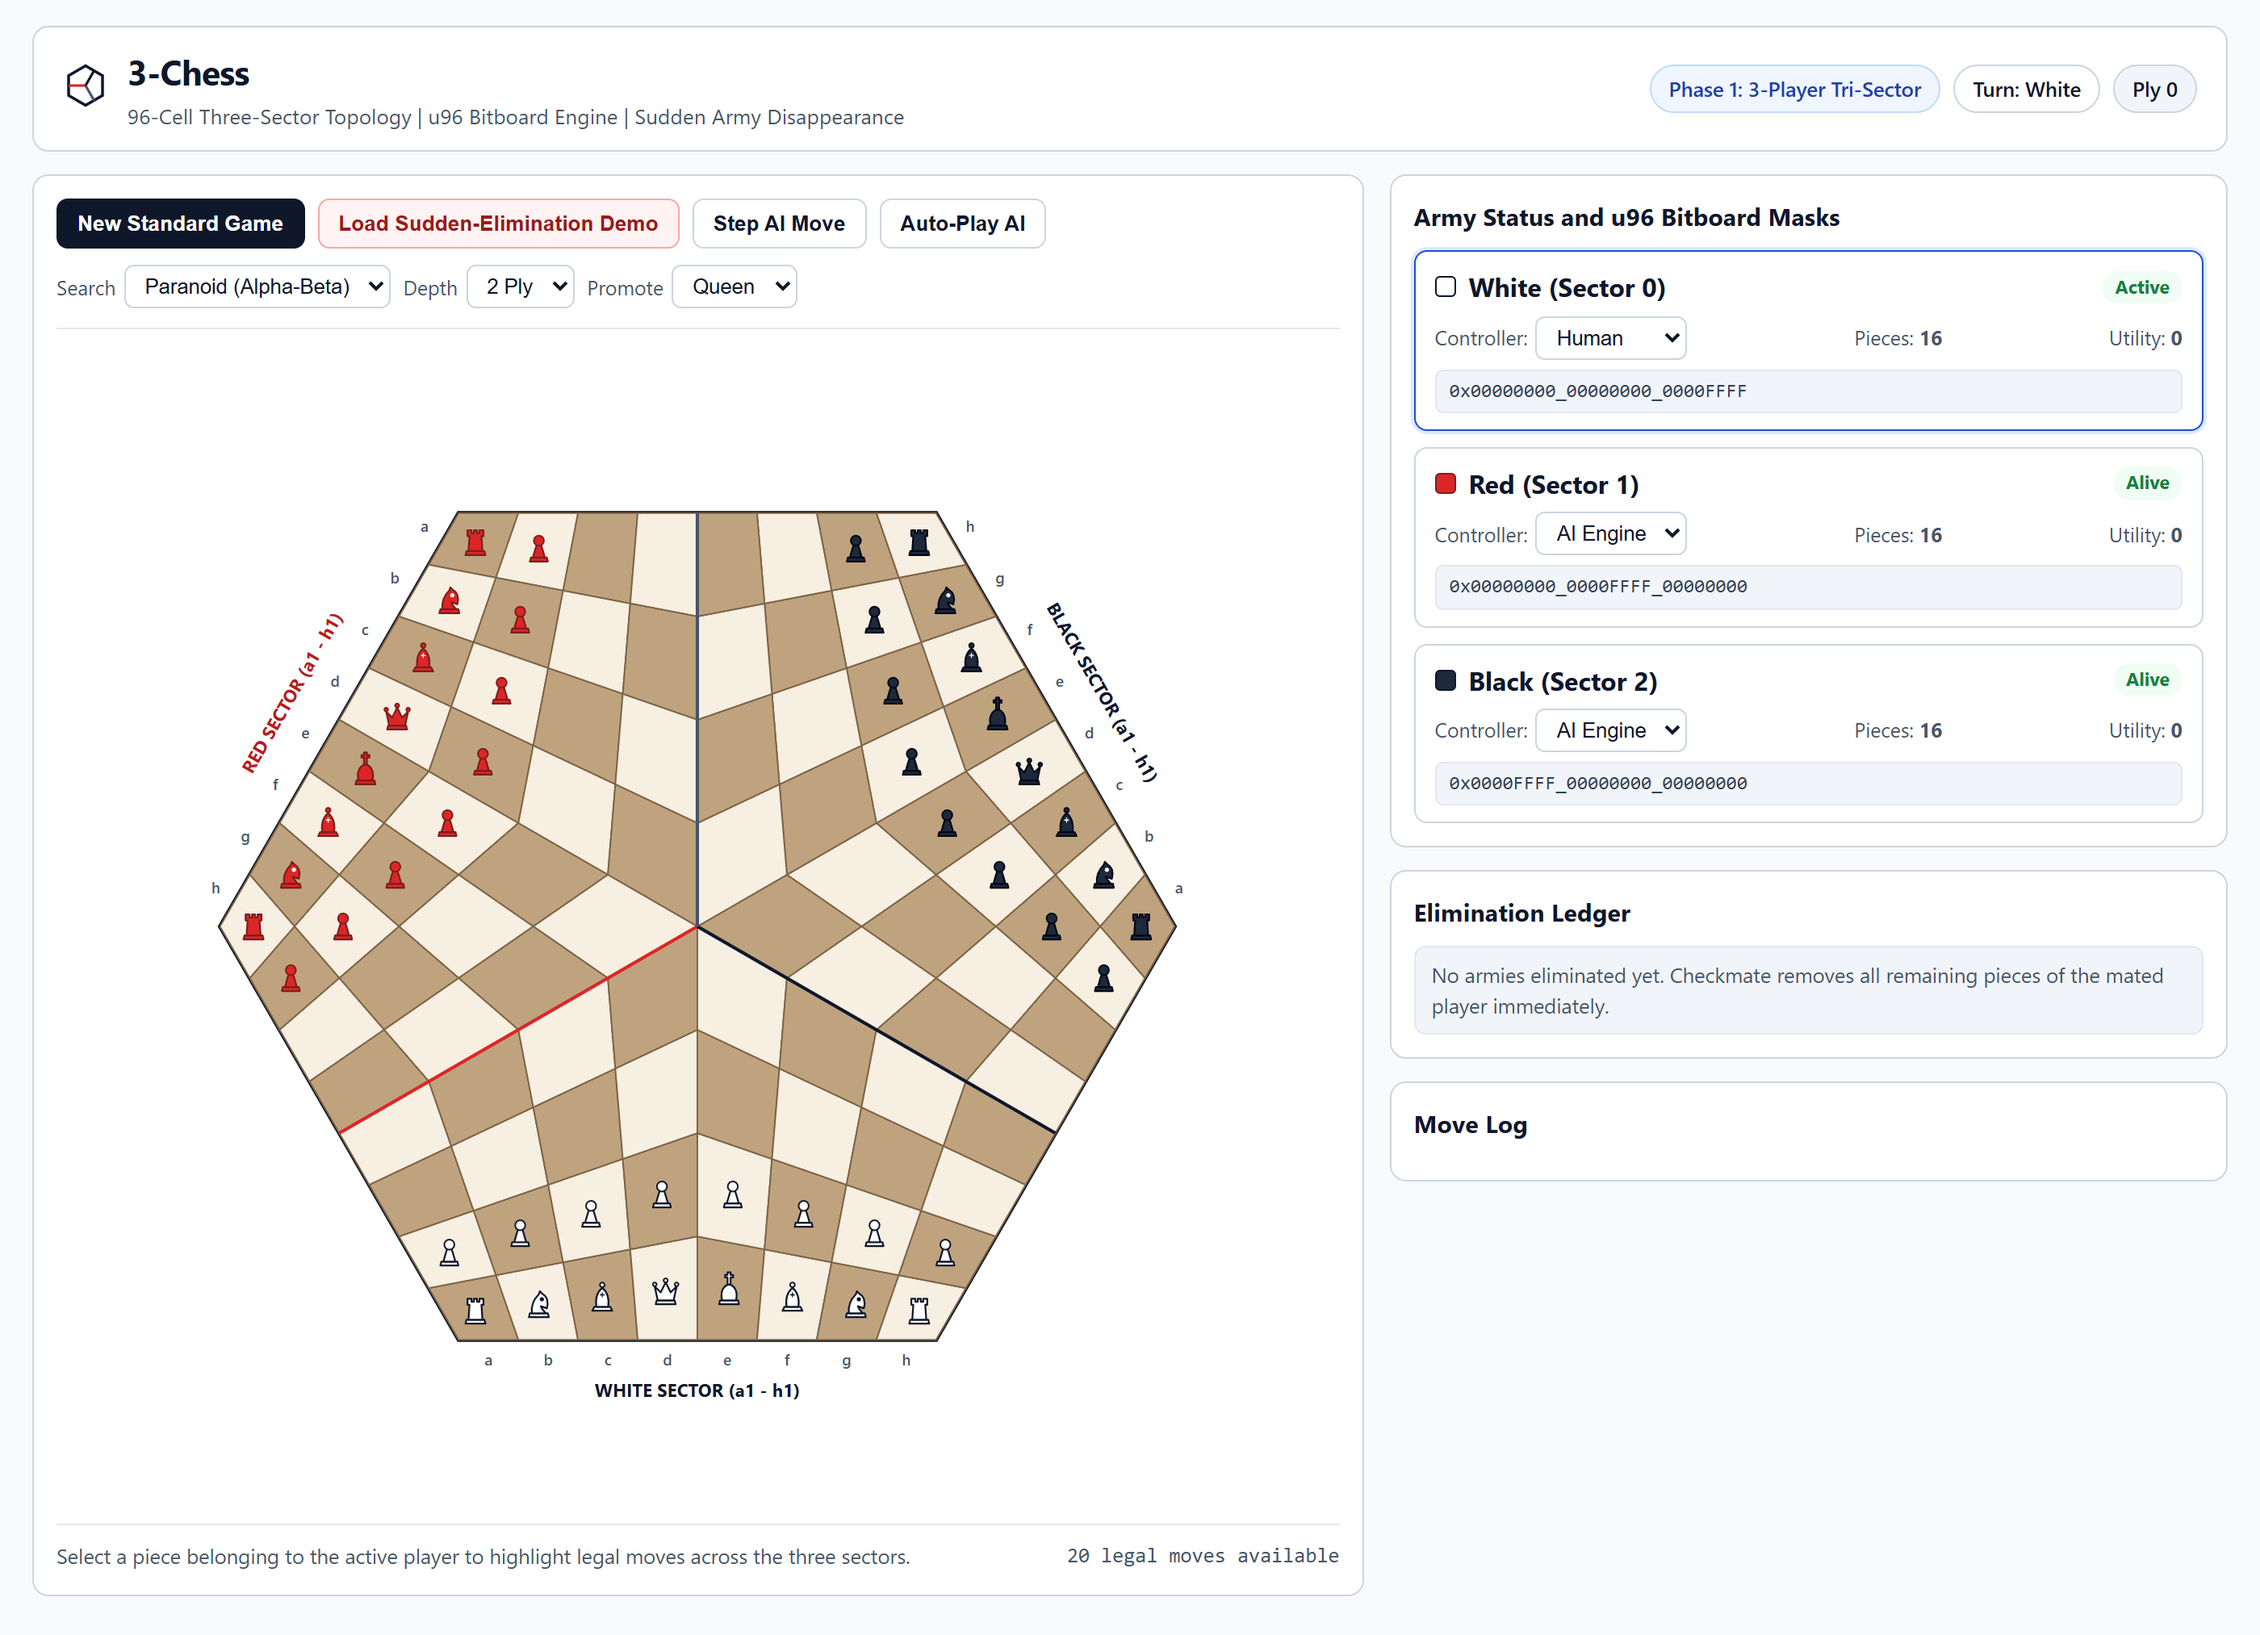
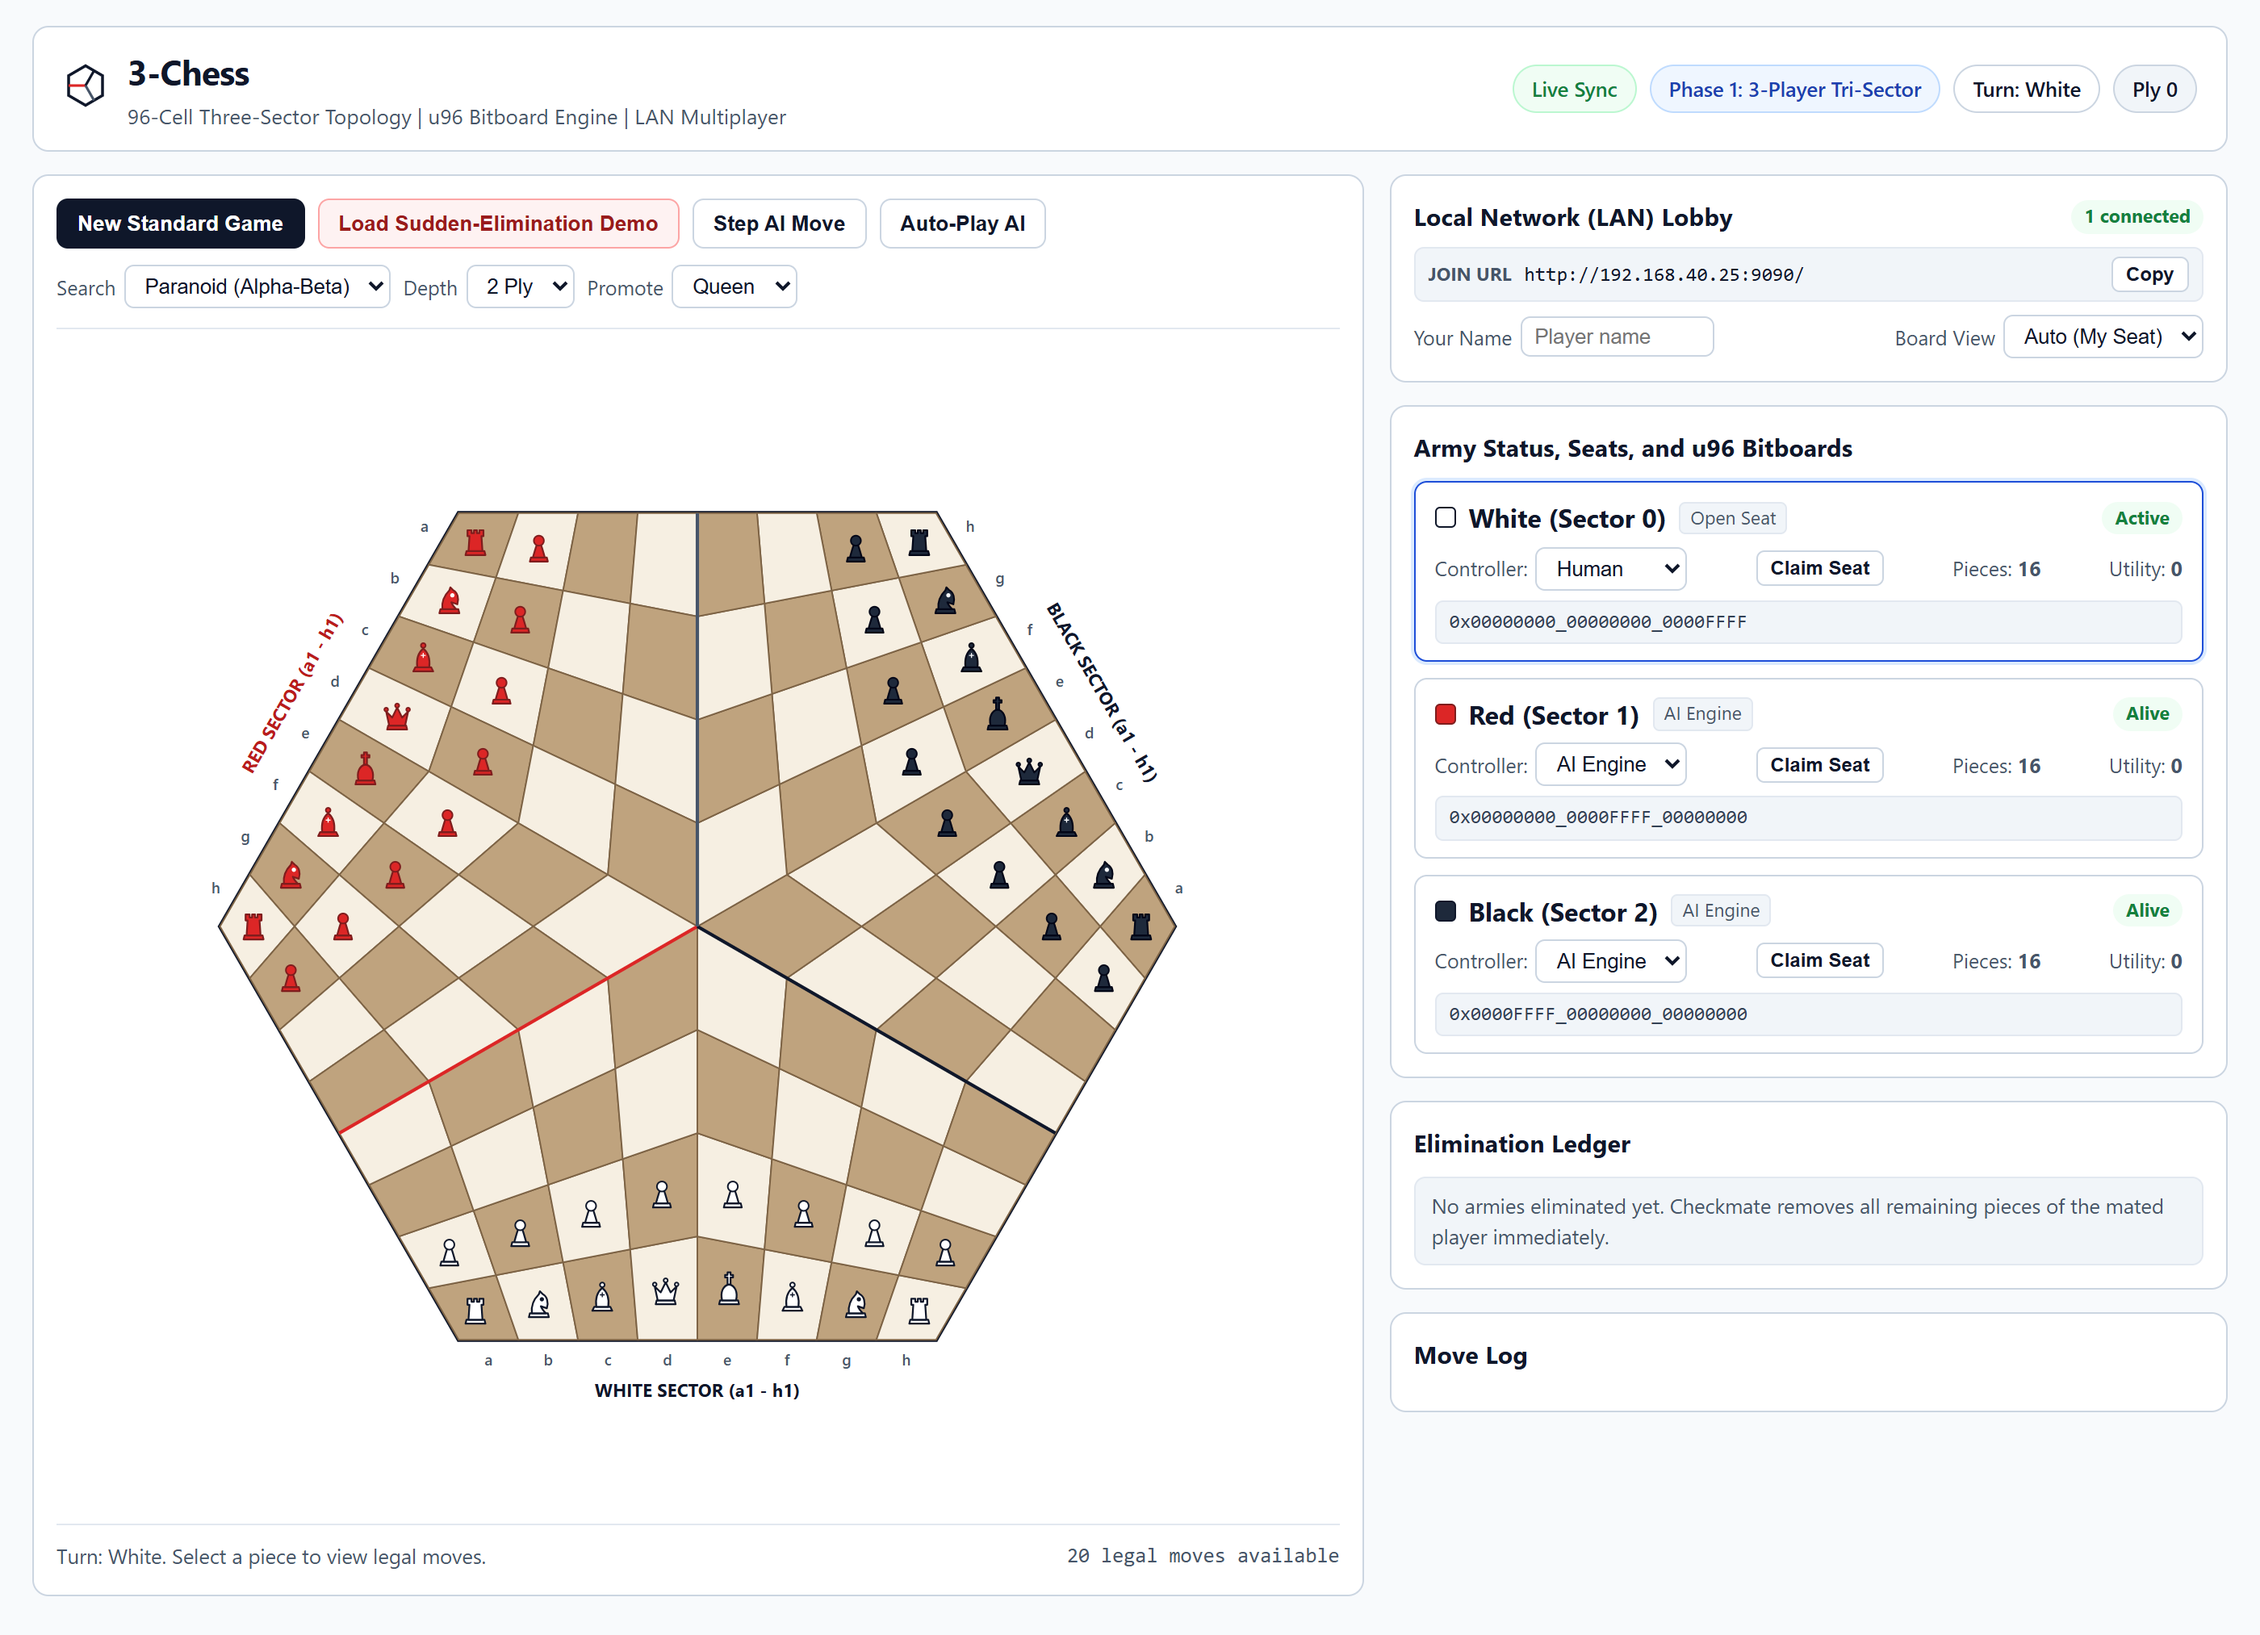
Use port 9090 instead.

diff --git a/web/index.html b/web/index.html
@@ -86,7 +86,7 @@
           </div>
           <div class="lan-url-row">
             <span class="lan-url-label">Join URL</span>
-            <code id="lan-url-text" class="lan-url-code mono">http://127.0.0.1:8080/</code>
+            <code id="lan-url-text" class="lan-url-code mono">http://127.0.0.1:9090/</code>
             <button id="btn-copy-url" class="btn btn-xs" type="button">Copy</button>
           </div>
           <div class="lan-controls">

diff --git a/README.md b/README.md
@@ -37,17 +37,17 @@
 
 ## Local Network (LAN) Multiplayer
 
-By default, `mix three_chess.serve` binds to `0.0.0.0:8080` so players on other computers or devices on the same Wi-Fi or local network can join the same match in real time:
+By default, `mix three_chess.serve` binds to `0.0.0.0:9090` so players on other computers or devices on the same Wi-Fi or local network can join the same match in real time:
 
 1. Start the server from the project root on the host computer:
    ```powershell
    mix three_chess.serve
    ```
-   The server prints both the local URL (`http://127.0.0.1:8080/`) and all detected local network URLs (for example, `http://192.168.x.x:8080/`).
+   The server prints both the local URL (`http://127.0.0.1:9090/`) and all detected local network URLs (for example, `http://192.168.x.x:9090/`).
 2. Share the printed **Network** URL (also shown in the **Local Network (LAN) Lobby** panel in the UI) with up to two other players on the same local network.
 3. Each player enters their name and clicks **Claim Seat** on **White**, **Red**, or **Black**. Any unclaimed seat can remain set to **AI Engine** for mixed human-and-AI matches.
 4. Board moves, seat claims, controller changes, and eliminations synchronize automatically across all connected browsers via Server-Sent Events (`/api/events`). Each client can keep **Board View** on **Auto (My Seat)** to orient their own sector to the bottom of their screen.
-5. **Firewall Note:** If remote computers cannot reach the host URL, allow incoming TCP connections on port `8080` (or permit `erl.exe` on Private networks) in your host operating system's firewall. To restrict the server to the local machine only, pass `--host 127.0.0.1`.
+5. **Firewall Note:** If remote computers cannot reach the host URL, allow incoming TCP connections on port `9090` (or permit `erl.exe` on Private networks) in your host operating system's firewall. To restrict the server to the local machine only, pass `--host 127.0.0.1`.
 
 ## Running Tests, Benchmarks, and the Web UI
 
@@ -67,7 +67,7 @@ Run Perft, Sudden Disappearance verification, and AI benchmarks:
 mix three_chess.bench
 ```
 
-Start the interactive web interface for local and LAN play (defaults to `--host 0.0.0.0 --port 8080`):
+Start the interactive web interface for local and LAN play (defaults to `--host 0.0.0.0 --port 9090`):
 
 ```powershell
 mix three_chess.serve
@@ -76,7 +76,7 @@ mix three_chess.serve
 Optional host and port overrides:
 
 ```powershell
-mix three_chess.serve --host 127.0.0.1 --port 8080
+mix three_chess.serve --host 127.0.0.1 --port 9090
 ```
 
 ### Zig Toolchain (Optional Native / WASM Build)
